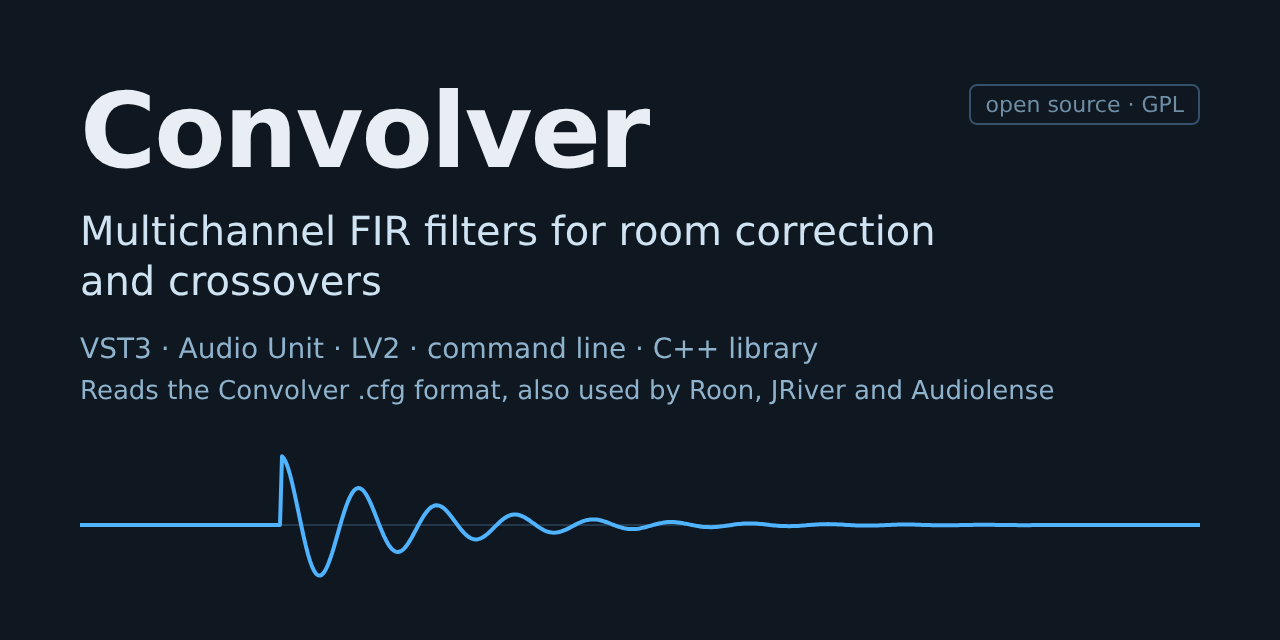
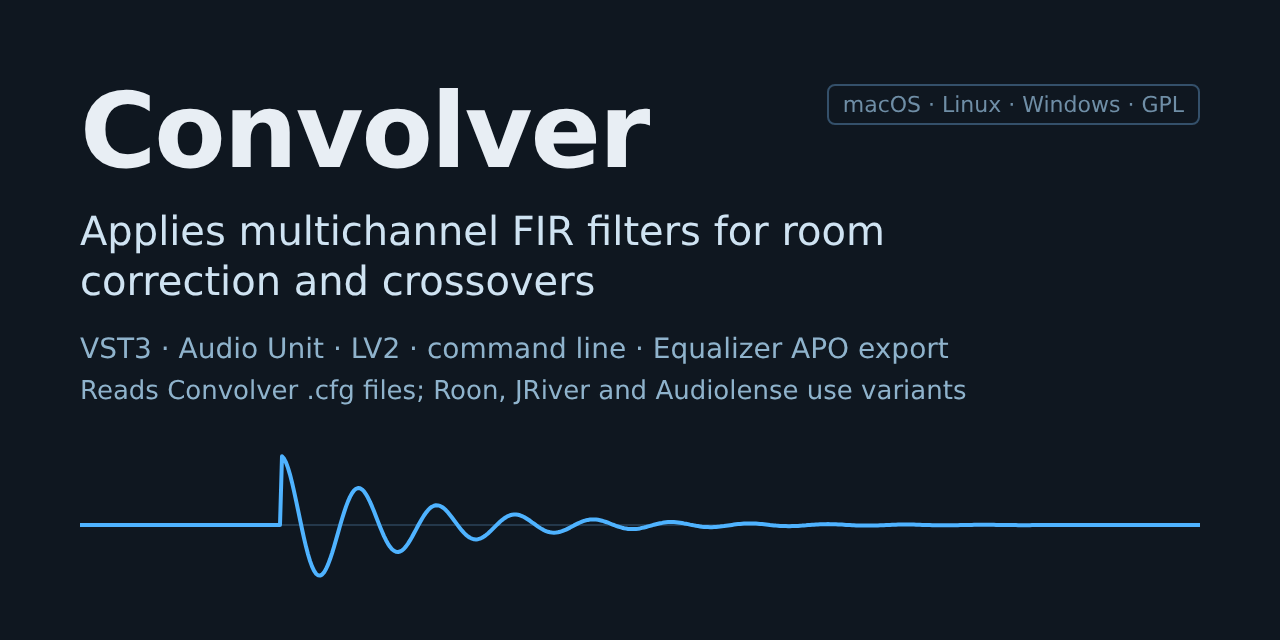
REL-4: answer the independent review
- Social preview: "Applies" filters (Convolver does not design them),
  .cfg readers described as using variants, Equalizer APO export instead
  of the library, platforms named; its comment says it lists what the
  project offers, including formats that come in later previews.
- Issue form: examples are in the package's presets/ folder or
  examples/first-use/ in the source.
- README: old .cfg files "may need" edits.
- TODO: say where the 23 October findings came from.
- Releasing: clearer step list; a link on SourceForge, or the source
  bundle with any uploaded packages; posts at the first preview and at
  previews that add a format.

Claude-Session: https://claude.ai/code/session_01Y32BjwZiQG8dxDCXHSuPLG

diff --git a/.github/social-preview.html b/.github/social-preview.html
@@ -2,7 +2,8 @@
 <!-- SPDX-License-Identifier: GPL-2.0-or-later -->
 <!--
 Source of social-preview.png, the image GitHub shows when a link to the
-repository is shared. Update the text when the formats or platforms change,
+repository is shared. It lists the formats and platforms the project offers,
+including those that only come in later previews. Update the text when they change,
 render it at 1280 x 640, and upload the PNG in the repository's Settings,
 General, Social preview (only jrp can). To render with headless Chromium:
 
@@ -37,11 +38,11 @@ See docs/develop/releasing.md#after-publishing-make-it-findable.
 <body>
 <div class="text">
   <h1>Convolver</h1>
-  <div class="tagline">Multichannel FIR filters for room correction<br>and crossovers</div>
-  <div class="formats">VST3 · Audio Unit · LV2 · command line · C++ library</div>
-  <div class="cfg">Reads the Convolver .cfg format, also used by Roon, JRiver and Audiolense</div>
+  <div class="tagline">Applies multichannel FIR filters for room<br>correction and crossovers</div>
+  <div class="formats">VST3 · Audio Unit · LV2 · command line · Equalizer APO export</div>
+  <div class="cfg">Reads Convolver .cfg files; Roon, JRiver and Audiolense use variants</div>
 </div>
-<div class="licence">open source · GPL</div>
+<div class="licence">macOS · Linux · Windows · GPL</div>
 <svg width="1120" height="150" viewBox="0 0 1120 150">
   <line x1="0" y1="75" x2="1120" y2="75" stroke="#24384b" stroke-width="2"/>
   <polyline id="impulse" fill="none" stroke="#4fb3ff" stroke-width="4" stroke-linejoin="round"/>

diff --git a/docs/develop/releasing.md b/docs/develop/releasing.md
@@ -86,20 +86,23 @@ warns), as jrp decided on 21 October 2026.
 
 People who already use the `.cfg` format find Convolver through search, the
 old SourceForge site and the forums where room correction is discussed. After
-each preview is published, jrp (these are settings, accounts and posts only
-jrp can do):
+each preview is published, jrp does the following; each step needs repository
+settings or jrp's own accounts:
 
-1. In the [README](../../README.md), point a Download line at the release and
-   add build-status, licence and latest-release badges (first preview only).
+1. In the [README](../../README.md), point a Download line at the latest
+   release. With the first preview, also add build-status, licence and
+   latest-release badges.
 2. Check that the repository description, topics, Website field and
    [social preview](../../.github/social-preview.html) still list the formats
-   and platforms the release ships; regenerate and upload the image if not.
-3. Add the release, or a link to it, to the old [SourceForge project](https://sourceforge.net/projects/convolver/)
+   and platforms the project offers; regenerate and upload the image if not.
+3. Add a link to the release to the old [SourceForge project](https://sourceforge.net/projects/convolver/)
    files, keeping the 4.4 Windows download available for Windows Media Player
-   users.
+   users. Uploading the packages there instead is redistribution, so the
+   source bundle goes with them ([licences](#licences-and-corresponding-source)).
 4. Update the [KVR Audio listing](https://www.kvraudio.com/product/convolver_by_convolver_sf_net)
    (formats, platforms, version) and post the release in KVR's news.
-5. Announce it once in each community where `.cfg` users ask questions: Roon
+5. For the first preview, and later for a preview that adds a format, post
+   once in each community where `.cfg` users ask questions: Roon
    Community (DSP), AV Nirvana (REW and Audiolense), JRiver Interact, diyAudio
    (PC Based), Audio Science Review and Hydrogenaudio.
 6. Once a release includes LV2, propose it to

diff --git a/TODO.md b/TODO.md
@@ -117,10 +117,11 @@ which put FFmpeg next, is kept as a dated record and is superseded here.
   [next milestone](#execution-priorities). jrp chooses the tester.
 - [ ] **REL-4 — Make the preview findable.** Room-correction users and the
   `.cfg` format's existing users should find Convolver from search, the old
-  SourceForge site, KVR and their forums. The 23 October 2026 review found no
-  topics, releases, website link or custom social preview, a description in
-  the 2006 wording, and nothing at SourceForge pointing here, although Roon's
-  convolution help page links to the old site's format pages. Repository side
+  SourceForge site, KVR and their forums. On 23 October 2026 the repository had
+  no topics, releases, website link or custom social preview, and a description
+  in the 2006 wording (GitHub API); nothing on the SourceForge project page or
+  the old site pointed here, although Roon's convolution help page links to the
+  old site's format pages (checked that day). Repository side
   (jrp chose this scope on 24 October 2026): a README line for users of the
   old Windows Convolver, issue forms, the
   [social preview source](.github/social-preview.html) and the

diff --git a/README.md b/README.md
@@ -16,7 +16,7 @@ as:
 A filter is a multichannel impulse-response (IR) sound file, or a Convolver
 **`.cfg`** file describing filters and routes. Roon, JRiver and Audiolense use
 variants of the `.cfg` format ([other programs](docs/use/other-programs.md)).
-Coming from the old Windows Convolver? Your `.cfg` files come across with a few
+Coming from the old Windows Convolver? Your `.cfg` files may need a few
 edits ([how](docs/use/other-programs.md#configurations-from-the-old-windows-convolver)).
 Convolver is a developer preview: packages are unsigned and no named DAW has
 been tested yet ([status](docs/project/status.md)).
